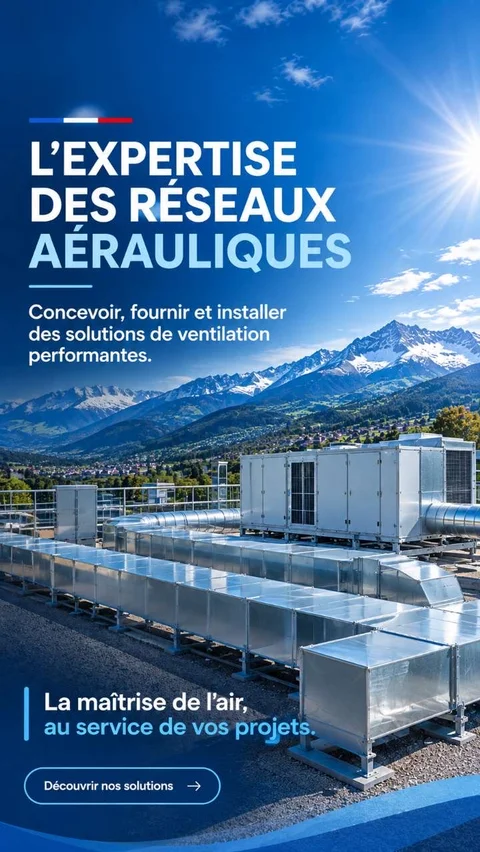
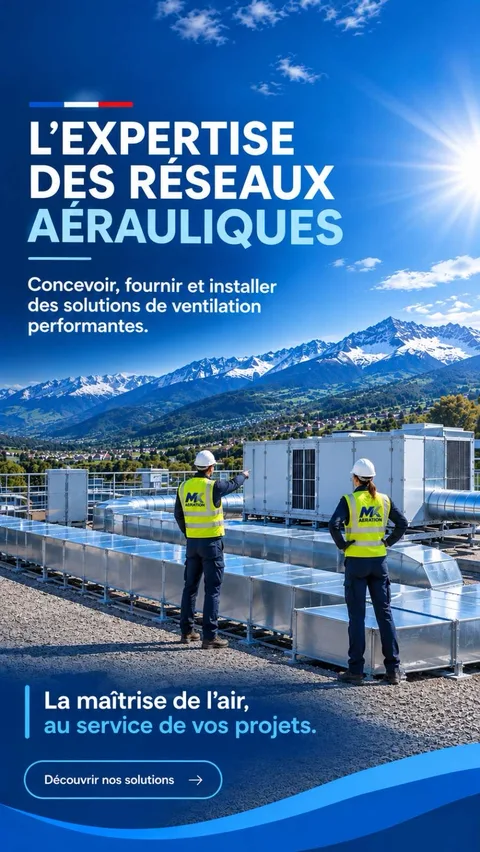
Accueil : nouveau visuel du hero sur mobile et ordinateur
- Mobile : nouvelle affiche MK Aération en entier
- Ordinateur : photo des techniciens en toiture, fondue dans le bleu
- Retrait de la légende Annecy qui ne correspondait plus

diff --git a/components/public-home.tsx b/components/public-home.tsx
@@ -62,7 +62,9 @@ export function PublicHome({
     "/images/mk-aeration-hero-landscape.webp",
   ].includes(photo.src);
   const heroPhoto = suppliedHero
-    ? homePhotos.find((item) => item.src === "/images/annecy-panorama.webp")!
+    ? homePhotos.find(
+        (item) => item.src === "/images/mk-aeration-hero-landscape.webp",
+      )!
     : photo;
   const originalPoster =
     suppliedHero &&
@@ -328,31 +330,19 @@ export function PublicHome({
           {originalPoster && (
             <source
               media="(max-width: 767px)"
-              srcSet="/images/mk-aeration-hero-480.webp 480w, /images/mk-aeration-hero.webp 720w"
-              sizes="100vw"
-            />
-          )}
-          {suppliedHero && (
-            <source
-              media="(min-width: 768px)"
-              type="image/avif"
-              srcSet="/images/annecy-panorama-800.avif 800w, /images/annecy-panorama-1800.avif 1800w"
+              srcSet="/images/mk-aeration-hero-480.webp 480w, /images/mk-aeration-hero-800.webp 800w, /images/mk-aeration-hero.webp 900w"
               sizes="100vw"
             />
           )}
           <Photo
             className="lp-hero-background"
             src={heroPhoto.src}
-            alt={
-              suppliedHero
-                ? "Réseaux de ventilation et équipements de traitement d’air en toiture"
-                : heroPhoto.alt
-            }
+            alt={heroPhoto.alt}
             width={heroPhoto.width}
             height={heroPhoto.height}
             loading="eager"
             fetchPriority="high"
-            sizes="100vw"
+            sizes={suppliedHero ? "(min-width: 768px) 72vw, 100vw" : "100vw"}
           />
         </picture>
         <div className="lp-hero-shade" aria-hidden="true" />
@@ -396,12 +386,6 @@ export function PublicHome({
             </div>
           </div>
         </div>
-        {suppliedHero && (
-          <Link className="lp-hero-caption" href="/realisations/fier-annecy">
-            <span>Sur le terrain</span>Installation de ventilation · Annecy{" "}
-            <ArrowUpRight size={15} aria-hidden="true" />
-          </Link>
-        )}
         <a
           className="lp-hero-scroll"
           href="#entreprise"

diff --git a/app/styles/landing.css b/app/styles/landing.css
@@ -1318,7 +1318,7 @@ body:has(.public-header),
   .lp-hero-original-mobile .lp-hero-background {
     width: 100%;
     height: auto;
-    aspect-ratio: 720 / 1278;
+    aspect-ratio: 900 / 1598;
     object-fit: contain;
   }
   .lp-hero-original-mobile .lp-hero-shade,
@@ -1487,20 +1487,25 @@ body:has(.public-header),
 .lp-hero-photo-hd .lp-hero-scroll {
   display: none;
 }
+/* Ordinateur : la photo de l’affiche à droite, fondue dans le bleu du ciel. */
 @media (min-width: 768px) {
+  .lp-hero-photo-hd {
+    background: linear-gradient(180deg, #0b4fa6 0%, #08417f 55%, #062f62 100%);
+  }
+  .lp-hero-photo-hd .lp-hero-backdrop {
+    left: auto;
+    width: 72%;
+    -webkit-mask-image: linear-gradient(90deg, transparent, #000 34%);
+    mask-image: linear-gradient(90deg, transparent, #000 34%);
+  }
   .lp-hero-photo-hd .lp-hero-background {
-    object-position: center 64%;
+    object-position: 60% 30%;
   }
   .lp-hero-photo-hd .lp-hero-shade {
     background:
-      linear-gradient(
-        90deg,
-        #032c4ff7 0%,
-        #033253de 28%,
-        #0332538c 48%,
-        #0332530a 78%
-      ),
-      linear-gradient(0deg, #032d5d99, transparent 50%);
+      linear-gradient(90deg, #062f62cc 0%, #08417f80 34%, transparent 58%),
+      linear-gradient(0deg, #062f62b3, transparent 34%),
+      linear-gradient(180deg, #0b4fa666, transparent 22%);
   }
   .lp-hero-photo-hd .lp-hero-wave {
     height: 36px;

diff --git a/lib/home-content.ts b/lib/home-content.ts
@@ -4,16 +4,16 @@ export const homePhotos = [
   {
     src: "/images/mk-aeration-hero-landscape.webp",
     label: "L’expertise des réseaux aérauliques — composition paysage",
-    alt: "Installations de ventilation et gaines en toiture devant les Alpes, extraites du visuel fourni par MK Aération",
-    width: 720,
-    height: 470,
+    alt: "Deux techniciens MK Aération devant les gaines et la centrale de traitement d’air en toiture, face aux Alpes",
+    width: 900,
+    height: 654,
   },
   {
     src: "/images/mk-aeration-hero.webp",
     label: "La maîtrise de l’air, au service de vos projets",
     alt: "L’expertise des réseaux aérauliques — concevoir, fournir et installer des solutions de ventilation performantes. Visuel fourni par MK Aération.",
-    width: 720,
-    height: 1278,
+    width: 900,
+    height: 1598,
   },
   {
     src: "/images/mont-blanc-presentation.webp",

diff --git a/components/photo.tsx b/components/photo.tsx
@@ -1,7 +1,7 @@
 import type { ImgHTMLAttributes } from "react";
 const widths: Record<string, number> = {
-  "mk-aeration-hero-landscape": 720,
-  "mk-aeration-hero": 720,
+  "mk-aeration-hero-landscape": 900,
+  "mk-aeration-hero": 900,
   "mont-blanc-entree": 1600,
   "vmc-equipements": 1440,
   "vmc-reseaux": 1440,
